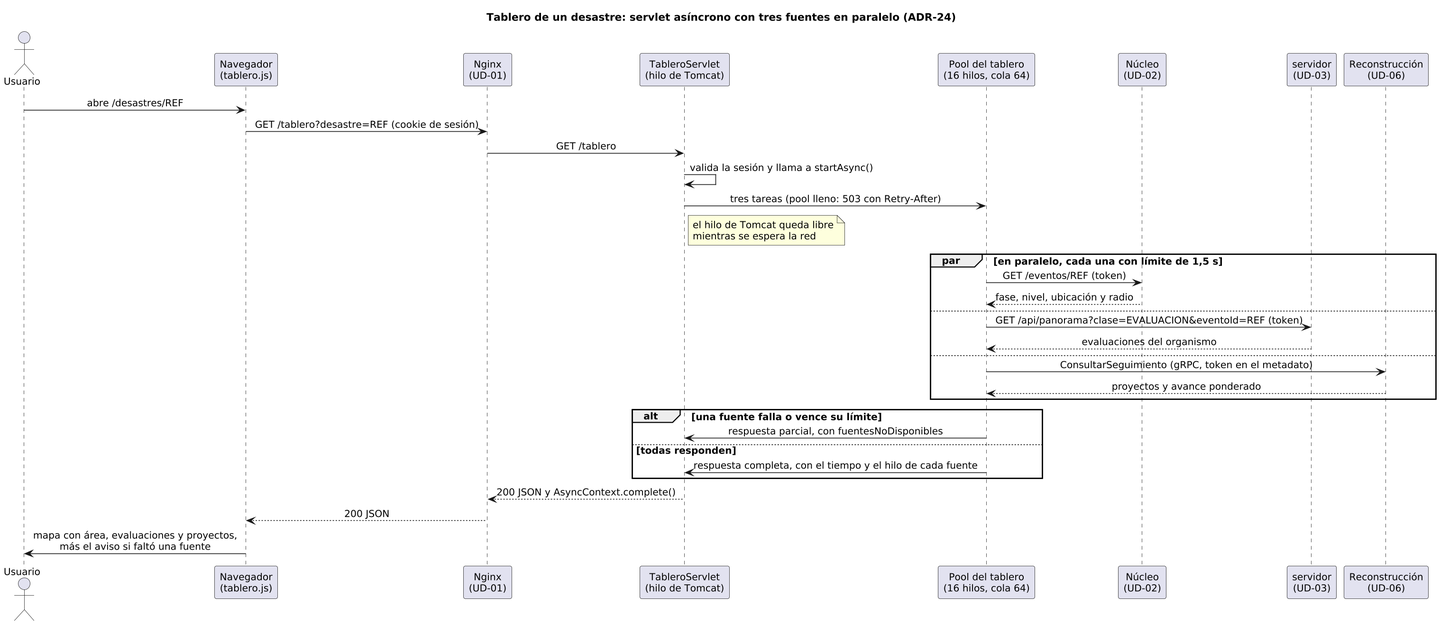
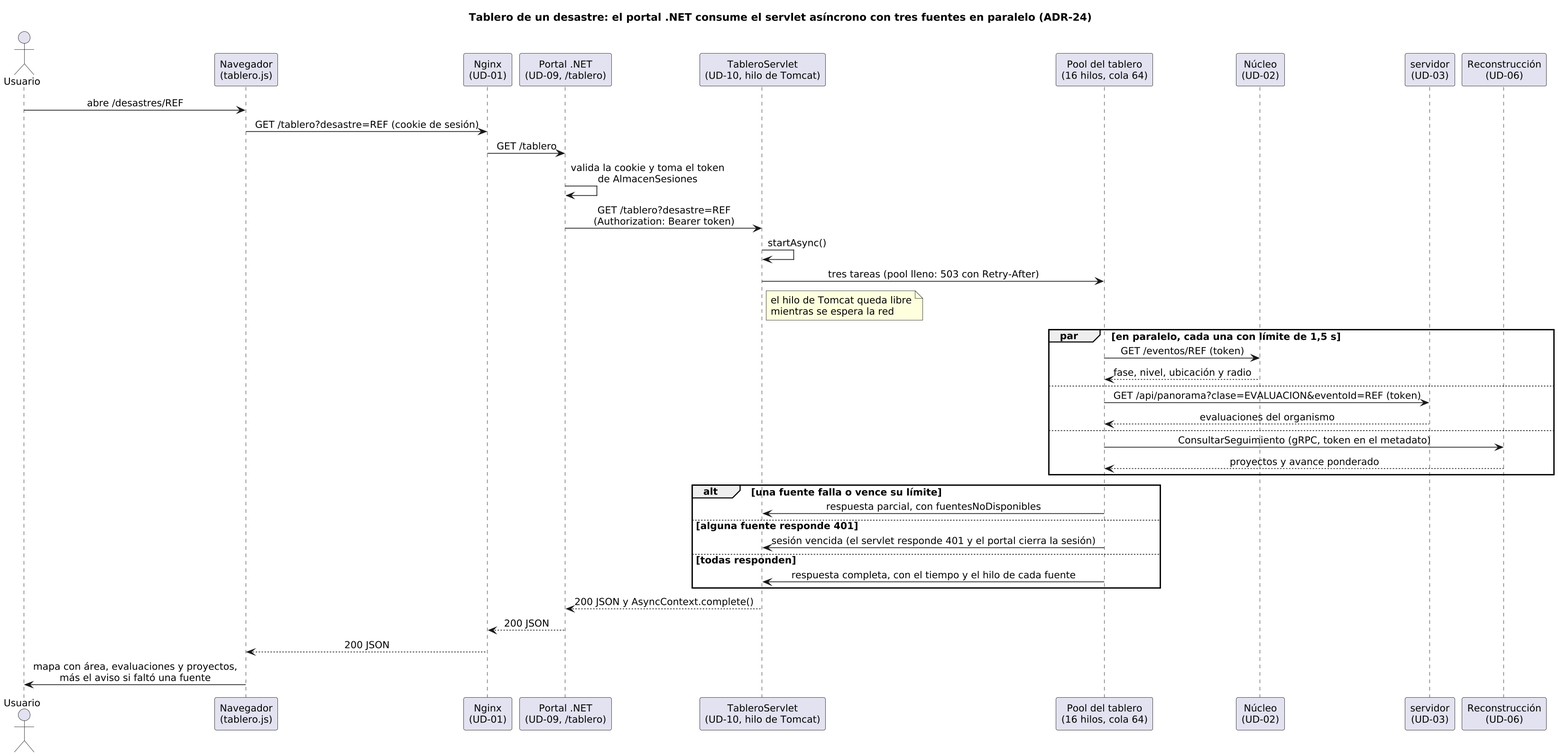
SAD v2.1: presentación en .NET (ADR-23), servicio de tablero (ADR-24) y diagramas
ADR-23 compara Web Forms, Web Pages, SPA/Blazor, MVC y Razor Pages, y documenta
Razor Pages como MVVM del lado del servidor. ADR-24 explica por qué el servlet
queda en un servicio Java aparte. Diagramas C4 de contenedores, despliegue,
componentes del portal y del tablero, y secuencia del tablero. README al día.

diff --git a/documentacion/SAD_arc42.md b/documentacion/SAD_arc42.md
@@ -1,8 +1,8 @@
-# SAD v2.0 · Plataforma para la Gestión de Desastres y Reconstrucción
+# SAD v2.1 · Plataforma para la Gestión de Desastres y Reconstrucción
 
 **Documento de arquitectura de software, organizado según arc42**
 
-**Versión:** 2.0 · **Fecha:** 15 de noviembre de 2026
+**Versión:** 2.1 · **Fecha:** 17 de noviembre de 2026
 
 **Equipo:** Andrés Barrios, Nicolás Parra, Thomás López, André Landinez
 
@@ -15,6 +15,7 @@
 | Primera entrega | 19-sep-2026 | Diseño inicial: un núcleo con tres satélites |
 | 1.0 | 10-nov-2026 | Ocho unidades de despliegue, vistas 4+1 y 22 decisiones. Responde al SRS v1.0 |
 | 2.0 | 15-nov-2026 | Reorganizado según arc42. Agrega el portal web MVC (UD-09) con su servlet multihilo y registra Reconstrucción (UD-06) como construida en Spring Boot con REST y gRPC. Retira UD-05. Adopta las cuatro fases del desastre. Agrega ADR-23 a ADR-29. Separa el ambiente entregado del despliegue objetivo |
+| 2.1 | 17-nov-2026 | Toda la presentación pasa a .NET, por aclaración del profesor: el portal se rehace en ASP.NET Core Razor Pages (ADR-23) y el servlet multihilo queda en un servicio de tablero en Java, UD-10, que el portal consume (ADR-24) |
 
 ## Cómo se cubren las vistas 4+1 y los entregables del enunciado
 
@@ -45,7 +46,7 @@ Este documento describe la arquitectura de la Plataforma para la Gestión de Des
 | --- | --- | --- |
 | a. App móvil que recolecta y caracteriza | App de campo .NET MAUI con SQLite: captura sin conexión y sincronización. Caracterizar desde la app está en curso | §6.4, §8.5 |
 | b. Reconstrucción física | UD-06 Reconstrucción, en Spring Boot con REST y gRPC | §5.3, §6.5 |
-| c. Mapa con desastres, evaluaciones y proyectos | Tablero del desastre en el portal (UD-09), armado por un servlet multihilo | §6.6 |
+| c. Mapa con desastres, evaluaciones y proyectos | Tablero del desastre en el portal (UD-09), armado por el servlet multihilo del servicio de tablero (UD-10) | §6.6 |
 | d. Evaluación de daños | Evaluaciones versionadas con fotografía en `servidor` (UD-03) | §5.3, §6.4 |
 | Autenticación y autorización | Sesión del núcleo validada en cada solicitud; permisos por rol y organismo | §8.1 |
 
@@ -97,8 +98,8 @@ El profesor y los evaluadores esperan decisiones justificadas y evidencia; los c
 
 | Restricción | Cómo se cumple |
 | --- | --- |
-| Presentación MVC con un framework | Portal en Spring MVC con Thymeleaf (ADR-23) |
-| Multihilo con servlets | `TableroServlet` asíncrono con pool acotado (ADR-24) |
+| Toda la presentación en .NET, con MVC, MVP o MVVM (aclaración del 17-nov-2026) | Portal en ASP.NET Core Razor Pages, MVVM del lado del servidor (ADR-23), y app de campo en .NET MAUI |
+| Multihilo con servlets | `TableroServlet` asíncrono con pool acotado, en el servicio de tablero que consume el portal (ADR-24) |
 | Componentes .NET para operar sin conexión | App de campo .NET MAUI con SQLite (ADR-25) |
 | Autenticación y autorización | Sesión del núcleo validada en cada unidad; permisos en el backend (§8.1) |
 | Alcance indicado en clase | Personas, recursos y donaciones como sistemas externos (ADR-28) |
@@ -108,7 +109,7 @@ El profesor y los evaluadores esperan decisiones justificadas y evidencia; los c
 - Se entrega un ambiente de una máquina con Docker Compose (§7.1). Los tres centros de datos quedan diseñados (§7.2).
 - Plantilla arc42 y diagramas C4: azul sólido es construido; gris con borde punteado, diseñado.
 - Se conservan los identificadores del SRS y de la versión 1.0 (RF, QA, CON, SE, UD, ADR). RN-01 a RN-21 son las reglas de negocio de Reconstrucción.
-- Los nombres en monoespaciado (`nucleo`, `servidor`, `desastres`, `campo`, `reconstruccion`, `portal`) son carpetas de código y contenedores.
+- Los nombres en monoespaciado (`nucleo`, `servidor`, `desastres`, `campo`, `reconstruccion`, `portal`, `tablero`) son carpetas de código y contenedores.
 
 ## 3. Contexto y alcance
 
@@ -211,8 +212,8 @@ Los puntajes son valoraciones del equipo, no mediciones. A y B pierden en escala
 | Bandeja de salida | Núcleo y Reconstrucción | Construido |
 | Publicar y suscribir con una cola por suscriptor | Notificaciones | Construido |
 | Entrada única | Nginx | Construido |
-| MVC con controlador frontal | Portal | Construido |
-| Consultas en paralelo con pool acotado y respuesta parcial | `TableroServlet` | Construido |
+| MVVM del lado del servidor (vista Razor y `PageModel`) | Portal | Construido |
+| Composición de API: consultas en paralelo con pool acotado y respuesta parcial | `TableroServlet` (servicio de tablero) | Construido |
 | Puertos y adaptadores (hexagonal) | Reconstrucción; capas en todas las unidades | Construido |
 | Fachada de API | `servidor` ofrece a la app una sola API y delega sesión y desastres en el núcleo | Construido |
 | Copia de lectura derivada | Catálogo de desastres en `servidor`; consulta pública | Construido; consulta pública diseñada |
@@ -220,7 +221,7 @@ Los puntajes son valoraciones del equipo, no mediciones. A y B pierden en escala
 
 ### 4.3 Tecnología y relación con Sahana Eden
 
-Java atiende el *back-office* en línea: el núcleo en Jakarta EE, por sus transacciones JTA, y Reconstrucción y el portal en Spring Boot 3.3. .NET atiende lo que trabaja sin conexión: la app MAUI y `servidor`, que comparten los contratos de sincronización (ADR-17).
+Java atiende el *back-office* en línea: el núcleo en Jakarta EE, por sus transacciones JTA, y Reconstrucción y el servicio de tablero en Spring Boot 3.3. .NET atiende toda la presentación (el portal en Razor Pages y la app MAUI) y `servidor`, que comparte con la app los contratos de sincronización (ADR-17, ADR-23).
 
 De Sahana Eden, analizada en el SRS, se toman la plataforma web como punto común, la configurabilidad por catálogos, la información geográfica transversal y el control de acceso por organización. No se toman su unidad única de despliegue ni su base compartida, porque impiden escalar y proteger lo crítico por separado.
 
@@ -242,7 +243,8 @@ De Sahana Eden, analizada en el SRS, se toman la plataforma web como punto comú
 | UD-06 | Reconstrucción (`reconstruccion`) | Java 17, Spring Boot 3.3, REST y gRPC | SRV-09: proyectos de reconstrucción física; RN-01 a RN-21 | Base `reconstruccion` | Degradable | Construida |
 | UD-07 | Consulta pública | ASP.NET Core | SRV-10: copia pública de solo lectura | Copia derivada | Degradable | Diseñada |
 | UD-08 | Integración | Jakarta EE, RabbitMQ | SRV-11: un adaptador por sistema externo | Pendientes | Según adaptador | Diseñada |
-| UD-09 | Portal web (`portal`) | Java 21, Spring Boot 3.3, Spring MVC, Thymeleaf | Única interfaz web; `TableroServlet` | Sesión HTTP en memoria | Crítica | Construida |
+| UD-09 | Portal web (`portal`) | ASP.NET Core 10, Razor Pages | Única interfaz web; consume los demás servicios | Tokens de sesión en memoria | Crítica | Construida |
+| UD-10 | Servicio de tablero (`tablero`) | Java 21, Spring Boot 3.3, Tomcat | Tablero de un desastre: `TableroServlet` multihilo | Ninguno | Degradable | Construida |
 | — | App de campo (`campo`) | .NET MAUI, SQLite | Captura sin conexión y sincronización | Capturas por organismo y usuario | Crítica | Construida; mejoras en curso |
 | INF-01 | Cola de mensajes | RabbitMQ 4.1 | — | Mensajes en tránsito | Crítica | Construida, un nodo |
 | INF-02 | Monitoreo | Sondas y métricas | — | Métricas | Crítica | Solo sondas de salud |
@@ -265,15 +267,23 @@ SRV-07 (personas) y SRV-08 (recursos) salen de alcance (ADR-28). El código de S
 
 ![Componentes del portal web](diagramas/componentes_portal.png)
 
-*Figura 4. Componentes del portal web (C4 nivel 3): MVC y servlet multihilo.*
+*Figura 4. Componentes del portal web (C4 nivel 3): ASP.NET Core Razor Pages.*
 
-| Parte del MVC | En el portal |
+| Parte del MVVM | En el portal |
 | --- | --- |
-| Controlador | `DispatcherServlet` de Spring como controlador frontal; clases `@Controller` de sesión, desastres, evaluaciones, mapa, Reconstrucción y usuarios |
-| Modelo | DTO y modelos de vista que arman `NucleoCliente` (REST), `ServidorCliente` (REST) y `ReconstruccionCliente` (gRPC) |
-| Vista | Plantillas Thymeleaf; el mapa usa Leaflet, servido por el portal |
+| Vista | Página Razor (`Pages/**/*.cshtml`): HTML generado en el servidor; el mapa usa Leaflet, servido por el portal |
+| Modelo de vista | `PageModel` de cada página (`*.cshtml.cs`): propiedades que la vista enlaza (`[BindProperty]`, validadas con anotaciones) y comandos `OnGet` y `OnPost…` |
+| Modelo | Datos de los servicios dueños, que traen `NucleoCliente` y `ServidorCliente` (REST), `ReconstruccionCliente` (gRPC, generado de `reconstruccion.proto`) y `TableroCliente` (REST) |
 
-Pantallas: inicio de sesión; desastres con filtro por fase, registro, caracterización, cambio de fase e historial; tablero con mapa; evaluaciones con historial y foto; Reconstrucción completa; usuarios del organismo. `InterceptorSesion` envía al inicio de sesión a quien no tiene sesión. Los botones dependen del rol, pero cada servicio valida los permisos.
+Pantallas: inicio de sesión; desastres con filtro por fase, registro, caracterización, cambio de fase e historial; tablero con mapa; evaluaciones con historial y foto; Reconstrucción completa; usuarios del organismo. La autenticación por cookie envía al inicio de sesión a quien no tiene sesión; la cookie solo lleva la identidad y un id, y el token del núcleo queda en la memoria del portal. Cada formulario lleva un token antifalsificación. Los botones dependen del rol, pero cada servicio valida los permisos.
+
+#### 5.2.2b Servicio de tablero (UD-10)
+
+![Componentes del servicio de tablero](diagramas/componentes_tablero.png)
+
+*Figura 4b. Componentes del servicio de tablero (C4 nivel 3): servlet asíncrono multihilo.*
+
+No tiene interfaz: solo lo llama el portal, con el token del usuario en `Authorization: Bearer`. `TableroServlet` reparte las tres consultas en un pool acotado (§6.6) y cada fuente valida el token contra el núcleo; si alguna responde 401, el servlet responde 401 y el portal cierra la sesión. No se publica en el equipo.
 
 #### 5.2.3 Reconstrucción (UD-06)
 
@@ -344,7 +354,7 @@ La coordinación de organismos (participación por desastre y tareas con estados
 | Adaptadores | Controladores REST y gRPC, mensajería, repositorios | Casos de uso |
 | Infraestructura | Base de datos, colas, red, configuración | Adaptadores |
 
-Hay una carpeta y un contenedor por unidad; `interop` guarda los clientes de prueba de SOAP y EJB remoto. Ninguna unidad importa código de otra: se comunican por contratos REST, gRPC (`reconstruccion.proto`, copiado en el portal) y de eventos (§8.4). Las pruebas de punta a punta están en `servidor/scripts` y `portal/scripts`, y `./verificar.sh` las corre todas.
+Hay una carpeta y un contenedor por unidad; `interop` guarda los clientes de prueba de SOAP y EJB remoto. Ninguna unidad importa código de otra: se comunican por contratos REST, gRPC (`reconstruccion.proto`, copiado en el portal y en el tablero) y de eventos (§8.4). Las pruebas de punta a punta están en `servidor/scripts` y `tablero/scripts`, y `./verificar.sh` las corre todas.
 
 ## 6. Vista de ejecución
 
@@ -408,7 +418,7 @@ Los ciudadanos usarían la consulta pública (diseñada), que lee su propia copi
 | La carga supera la capacidad | Se degrada en el orden de §8.2; lo crítico no |
 | El núcleo no responde | Las operaciones protegidas se rechazan; la consulta pública sigue |
 
-Evidencia: el tablero con 20 clientes responde con p95 de 241 ms en una máquina (§6.6). No hay prueba con 10.000 usuarios.
+Evidencia: el tablero con 20 clientes responde con p95 de 366 ms en una máquina (§6.6). No hay prueba con 10.000 usuarios.
 
 ### 6.3 Escenario C — Falla de un sistema externo
 
@@ -507,29 +517,32 @@ Cada proyecto guarda una copia de sus evaluaciones de origen y la conserva aunqu
 
 ![Secuencia del tablero](diagramas/secuencia_tablero.png)
 
-*Figura 10. Tablero de un desastre: servlet asíncrono con tres fuentes en paralelo.*
+*Figura 10. Tablero de un desastre: el portal .NET consume el servlet asíncrono, que consulta tres fuentes en paralelo.*
 
-1. `TableroServlet` atiende `GET /tablero`, valida la sesión y llama a `startAsync`, que libera el hilo de Tomcat.
-2. Un pool de 16 hilos con cola de 64 consulta en paralelo el desastre (núcleo), sus evaluaciones (`servidor`) y sus proyectos (Reconstrucción, por gRPC). Cada fuente tiene 1,5 s de límite, y la respuesta, 3 s.
-3. Si una fuente falla o vence, responde con las demás e indica `fuentesNoDisponibles`.
-4. Con el pool y la cola llenos responde 503 con `Retry-After`; nunca encola sin límite.
+1. El navegador pide `/tablero` al portal. El portal toma el token de la sesión y llama al servicio de tablero con `Authorization: Bearer`.
+2. `TableroServlet` llama a `startAsync`, que libera el hilo de Tomcat.
+3. Un pool de 16 hilos con cola de 64 consulta en paralelo el desastre (núcleo), sus evaluaciones (`servidor`) y sus proyectos (Reconstrucción, por gRPC). Cada fuente tiene 1,5 s de límite, y la respuesta, 3 s.
+4. Si una fuente falla o vence, responde con las demás e indica `fuentesNoDisponibles`; si una responde 401, el token venció y el portal cierra la sesión.
+5. Con el pool y la cola llenos responde 503 con `Retry-After`; nunca encola sin límite.
 
-Medición del 15-nov-2026 en el ambiente entregado (`evidencias/rol1-tablero/medicion_tablero_2026-11-15_2329.json`):
+Medición del 17-nov-2026 en el ambiente entregado, de punta a punta: navegador, Nginx, portal .NET, servicio de tablero y tres fuentes (`evidencias/rol1-tablero/medicion_tablero_2026-11-17_1527.json`):
 
 | Escenario | Solicitudes | Clientes | p50 | p95 | Lectura |
 | --- | --- | --- | --- | --- | --- |
-| Paralelo | 100 | 1 | 27 ms | 44 ms | Un 27 % más rápido en p95: tarda lo de la fuente más lenta |
-| Secuencial | 100 | 1 | 37 ms | 61 ms | |
-| Paralelo | 300 | 20 | 173 ms | 241 ms | Igual al secuencial (3 % más) en una máquina saturada |
-| Secuencial | 300 | 20 | 153 ms | 233 ms | |
-| Reconstrucción congelada | 60 | 20 | 1.510 ms | 1.523 ms | 60 de 60 respuestas parciales, sin errores |
+| Paralelo | 100 | 1 | 27 ms | 50 ms | Un 22 % más rápido en p95: tarda lo de la fuente más lenta |
+| Secuencial | 100 | 1 | 41 ms | 64 ms | |
+| Paralelo | 300 | 20 | 223 ms | 366 ms | Igual al secuencial (3 % más) en una máquina saturada |
+| Secuencial | 300 | 20 | 182 ms | 355 ms | |
+| Reconstrucción congelada | 60 | 20 | 1.515 ms | 1.528 ms | 60 de 60 respuestas parciales, sin errores |
+
+El salto del portal al servicio de tablero, que llegó con la presentación en .NET (ADR-23), cuesta unos 6 ms en p95 con un cliente (44 ms en la medición del 15-nov, sin ese salto). Con 20 clientes cuesta más (de 241 a 366 ms), porque en la misma máquina compiten dos contenedores más.
 
 Con 20 clientes, el paralelo triplica la carga simultánea sobre servicios ya saturados, que validan todos el token contra el núcleo: con una sola máquina no gana, y es un trade-off aceptado (ADR-24). Medir corrigió dos defectos:
 
 - Con el plazo de 5 s de las páginas, una fuente colgada retenía los hilos y 25 de 60 respuestas eran 503. Hoy el plazo de cada cliente del tablero es el límite de su fuente.
 - La fuente de Reconstrucción descargaba el catálogo completo del núcleo en cada consulta. Hoy las consultas de solo lectura usan una copia de hasta 3 s; las operaciones que deciden reglas leen siempre el dato fresco.
 
-La medición anterior a estos ajustes (`medicion_tablero_2026-11-15_1334.json`: p95 de 56 ms frente a 67 ms con 1 cliente y de 323 ms frente a 288 ms con 20) se conserva como evidencia del cambio.
+Las mediciones anteriores se conservan como evidencia de cada cambio: `medicion_tablero_2026-11-15_1334.json`, antes de esos ajustes (p95 de 56 ms frente a 67 ms con 1 cliente y de 323 ms frente a 288 ms con 20), y `medicion_tablero_2026-11-15_2329.json`, con el portal anterior en Spring (p95 de 44 ms frente a 61 ms con 1 cliente y de 241 ms frente a 233 ms con 20).
 
 ## 7. Vista de despliegue
 
@@ -542,7 +555,8 @@ La medición anterior a estos ajustes (`medicion_tablero_2026-11-15_1334.json`: 
 | Contenedor | Unidad | Tecnología | Puerto en el equipo | Habla con |
 | --- | --- | --- | --- | --- |
 | `web` | UD-01 Entrada | Nginx 1.28 | 127.0.0.1:18085 | `portal` (`/`), `api` (`/api/`), `reconstruccion` (`/api/reconstruccion/`) |
-| `portal` | UD-09 Portal web | Spring Boot 3.3, Spring MVC, Thymeleaf, Tomcat | — | `nucleo` (REST), `api` (REST), `reconstruccion` (gRPC 9096) |
+| `portal` | UD-09 Portal web | ASP.NET Core 10, Razor Pages, Kestrel | — | `nucleo` (REST), `api` (REST), `reconstruccion` (gRPC 9096), `tablero` (REST) |
+| `tablero` | UD-10 Servicio de tablero | Spring Boot 3.3, Tomcat | — | `nucleo` (REST), `api` (REST), `reconstruccion` (gRPC 9096) |
 | `nucleo` | UD-02 Núcleo | Jakarta EE en WildFly 41 (EJB, JPA, JTA, JAX-RS, SOAP, EJB remoto) | 127.0.0.1:18092 (pruebas) | `database`, `desastres` (HTTP, bandeja de salida) |
 | `database` | Base del núcleo | PostgreSQL 17 | — | — |
 | `api` | UD-03 Campo y mapas | ASP.NET Core 10 | — | `db`, `nucleo` (REST: sesión y catálogo), `desastres` |
@@ -554,8 +568,8 @@ La medición anterior a estos ajustes (`medicion_tablero_2026-11-15_1334.json`: 
 | `reconstruccion-db` | Base de Reconstrucción | PostgreSQL 17 | — | — |
 | Teléfono Android | App de campo | .NET MAUI + SQLite | — | `web` → `api` (`/api/campo/lotes`) |
 
-- **Inicio y secretos.** `./iniciar.sh` construye las imágenes, aplica las migraciones del núcleo y levanta los 11 contenedores. Los secretos viven en `servidor/.env`, que no se versiona y que `iniciar.sh` crea desde `.env.ejemplo`; Compose no tiene contraseñas escritas. Los puertos solo escuchan en 127.0.0.1.
-- **Verificación.** `./verificar.sh` corre 9 pruebas de punta a punta: API, integración, campo, Reconstrucción con gRPC, evolución, unificación, caracterización, portal y seguridad. El 15-nov-2026 pasaron con 247 comprobaciones; el número varía en dos o tres entre corridas porque algunas se repiten dentro de un ciclo de espera. La instalación en limpio, desde un clon nuevo, también pasa (`evidencias/rol1-build/`).
+- **Inicio y secretos.** `./iniciar.sh` construye las imágenes, aplica las migraciones del núcleo y levanta los 12 contenedores. Los secretos viven en `servidor/.env`, que no se versiona y que `iniciar.sh` crea desde `.env.ejemplo`; Compose no tiene contraseñas escritas. Los puertos solo escuchan en 127.0.0.1.
+- **Verificación.** `./verificar.sh` corre 9 pruebas de punta a punta: API, integración, campo, Reconstrucción con gRPC, evolución, unificación, caracterización, portal y seguridad. El 17-nov-2026, con el portal en .NET, pasaron con 248 comprobaciones (`evidencias/rol1-build/2026-11-17_verificar_portal_net.log`); el número varía en dos o tres entre corridas porque algunas se repiten dentro de un ciclo de espera. La instalación en limpio, desde un clon nuevo, también pasa (`evidencias/rol1-build/`).
 - **Alcance.** Este ambiente prueba el comportamiento funcional y sirve para medir (ADR-29). No prueba la disponibilidad ni la carga de 10.000 usuarios.
 
 ### 7.2 Despliegue objetivo: tres centros de datos (diseñado)
@@ -601,7 +615,7 @@ Tres reglas: se niega lo que no está permitido; cada permiso depende del rol y 
 
 | Mecanismo | Dónde y con qué valores | Estado |
 | --- | --- | --- |
-| Tiempos de espera | Entrada a las unidades: 5 s de conexión. Portal: 2 s de conexión y 5 s de lectura; 1,5 s por fuente en el tablero. `servidor` al núcleo: 5 s. Núcleo a notificaciones: 2 s y 3 s. Adaptadores: 2 a 10 s | Construido, salvo adaptadores |
+| Tiempos de espera | Entrada a las unidades: 5 s de conexión. Portal: 2 s de conexión y 5 s de lectura (4 s hacia el tablero). Servicio de tablero: 1,5 s por fuente y 3 s en total. `servidor` al núcleo: 5 s. Núcleo a notificaciones: 2 s y 3 s. Adaptadores: 2 a 10 s | Construido, salvo adaptadores |
 | Reintentos | Bandeja de salida en cada ciclo; cola de reintento a los 5 s; la app reenvía con los mismos identificadores | Construido |
 | Corte de circuito | Por adaptador: 3 fallas seguidas o 5 en 30 s; sonda cada 30 s | Diseñado |
 | Colas | Entrada de alertas, una por suscriptor, correo, eventos de Reconstrucción; durables | Construido en un nodo |
@@ -661,7 +675,7 @@ Con 80.000 ciudadanos solo crecería la consulta pública, de 4 a 9 instancias. 
 | Respuesta | 0,4 s | 0,4 s |
 | Margen | 0,3 s | 0,9 s |
 
-**Medido en el ambiente entregado.** El tablero, la consulta más compuesta, tuvo p95 de 44 ms con un cliente y de 241 ms con 20 (§6.6); en la versión 1.0, el registro de un desastre respondió en 22 ms con poca carga. Ninguna cifra incluye red real, réplica ni 10.000 usuarios. Confirmar en otro centro consumiría cerca de 0,8 s de los 3 s del registro, y con fotos de 5 MB el volumen de campo se multiplica por cinco. Las listas aún no se paginan (diseñado: de 20 en 20 con cursor).
+**Medido en el ambiente entregado.** El tablero, la consulta más compuesta, tuvo p95 de 50 ms con un cliente y de 366 ms con 20 (§6.6); en la versión 1.0, el registro de un desastre respondió en 22 ms con poca carga. Ninguna cifra incluye red real, réplica ni 10.000 usuarios. Confirmar en otro centro consumiría cerca de 0,8 s de los 3 s del registro, y con fotos de 5 MB el volumen de campo se multiplica por cinco. Las listas aún no se paginan (diseñado: de 20 en 20 con cursor).
 
 ### 8.4 APIs y eventos
 
@@ -681,7 +695,8 @@ Códigos HTTP: 200 o 201 aplicada; 202 recibida para proceso diferido; 401 sin c
 | `servidor` | `GET /api/desastres`, `/api/catalogos`; `POST /api/campo/lotes`; `GET` y `PUT /api/campo/evaluaciones/{id}`, con `/historial`, `/foto` y `/desastre`; `GET /api/panorama`; `/api/salud` | RF-ED-01 a 03, 07, 08, 11 a 14 |
 | Reconstrucción REST | Bajo `/api/reconstruccion`: desastres (iniciar reconstrucción, cerrar, evaluaciones, seguimiento, auditoría) y proyectos (crear, aprobar, iniciar, presupuesto, avance, costo, evidencia, estado, auditoría) | RF-RE-01 a 06 |
 | Reconstrucción gRPC | `ReconstruccionService`, 14 RPC: `IniciarReconstruccion`, `CrearProyecto`, `CrearProyectosEnLote`, `AprobarProyecto`, `IniciarEjecucion`, `RegistrarAvance`, `RegistrarCosto`, `AdjuntarEvidencia`, `ModificarPresupuesto`, `CambiarEstado`, `ConsultarSeguimiento`, `ConsultarAuditoria`, `CerrarDesastre`, `ConsultarEvaluaciones` | RF-RE-01 a 06 |
-| Portal | Páginas MVC y `GET /tablero?desastre=` (JSON del mapa) | Mínimo c |
+| Portal | Páginas Razor y `GET /tablero?desastre=` (JSON del mapa, que reenvía al servicio de tablero) | Mínimos a, b, c y d |
+| Servicio de tablero | `GET /tablero?desastre=` con `Authorization: Bearer`; solo lo llama el portal | Mínimo c |
 | Notificaciones | `POST /desastres` (aviso desde la bandeja de salida); `POST` y `GET /sistemas` (suscripción) | RF-GD-13, RF-CO-06 |
 
 Diseñadas, sin código: validación y duplicados de evaluaciones, documentos PDF, delimitación y consulta histórica, consolidación, participación y tareas, tipos de desastre, auditoría consolidada, consulta pública y alertas por fuente.
@@ -876,9 +891,9 @@ Cada ADR indica su estado en el código. Frente a la versión 1.0, ADR-01, 02, 0
 - **Requisitos.** CON-07, CON-02; restricciones del curso (§2.2).
 - **Contexto.** Los talleres usaron Jakarta EE, Spring Boot, .NET, mensajería, REST, SOAP, gRPC y llamadas remotas; el curso pide MVC, servlets multihilo y .NET sin conexión.
 - **Alternativas.** Una plataforma para todo; la que mejor se ajusta a cada unidad.
-- **Decisión.** Núcleo: Java 21 y Jakarta EE en WildFly 41 (EJB, JPA, JTA, JAX-RS, SOAP, EJB remoto). Portal: Java 21, Spring Boot 3.3, Spring MVC, Thymeleaf y servlets en Tomcat, con cliente gRPC. Reconstrucción: Java 17, Spring Boot 3.3, REST y gRPC. `servidor`: ASP.NET Core 10. App: .NET MAUI y SQLite. Notificaciones: Java 17 y Jakarta EE en Payara 6. Además, PostgreSQL 17, RabbitMQ 4.1, Nginx 1.28 y Docker Compose.
-- **Justificación.** JTA da la transacción local de ADR-01; Java para el *back-office* en línea y .NET para lo desconectado. CON-02 se ejercita con REST, gRPC, SOAP y EJB remoto.
-- **Consecuencias.** Dos plataformas y tres servidores de aplicaciones; la copia del `.proto` en el portal debe igualar la de Reconstrucción.
+- **Decisión.** Núcleo: Java 21 y Jakarta EE en WildFly 41 (EJB, JPA, JTA, JAX-RS, SOAP, EJB remoto). Portal: ASP.NET Core 10 con Razor Pages y cliente gRPC. Servicio de tablero: Java 21, Spring Boot 3.3 y servlets en Tomcat, con cliente gRPC. Reconstrucción: Java 17, Spring Boot 3.3, REST y gRPC. `servidor`: ASP.NET Core 10. App: .NET MAUI y SQLite. Notificaciones: Java 17 y Jakarta EE en Payara 6. Además, PostgreSQL 17, RabbitMQ 4.1, Nginx 1.28 y Docker Compose.
+- **Justificación.** JTA da la transacción local de ADR-01; Java para el *back-office* en línea y .NET para toda la presentación y lo desconectado. CON-02 se ejercita con REST, gRPC, SOAP y EJB remoto.
+- **Consecuencias.** Dos plataformas y tres servidores de aplicaciones; las copias del `.proto` en el portal y en el tablero deben igualar la de Reconstrucción (lo comprueba `verificar_portal.py`).
 
 #### ADR-18 — Incorporación inmediata o diferida de los lotes · Construido
 
@@ -925,23 +940,35 @@ Cada ADR indica su estado en el código. Frente a la versión 1.0, ADR-01, 02, 0
 - **Justificación.** Varias instancias y un registro que sobrevive a un centro.
 - **Consecuencias.** Una base más; mientras tanto, una sola instancia activa. Se decide con ADR-27.
 
-#### ADR-23 — Una sola presentación web MVC con Spring MVC y Thymeleaf · Construido
+#### ADR-23 — Presentación web en ASP.NET Core Razor Pages · Construido
 
-- **Requisitos.** Restricción del curso (MVC con framework); QA-SEG-01, QA-ESC-01; mínimos a, b, c y d.
-- **Contexto.** Había HTML estático en `servidor`, React en Reconstrucción y la app MAUI. Ninguna web usaba un framework MVC, y cada una manejaba la sesión en el navegador.
-- **Alternativas.** JSF del Taller 4 (estado de vista por sesión); ASP.NET Core MVC (sin servlets); Spring MVC con Thymeleaf; dejar HTML estático y React.
-- **Decisión.** UD-09 Portal web, en Spring Boot 3.3 con Spring MVC y Thymeleaf, como única interfaz web (§5.2.2). Habla por REST con el núcleo y `servidor`, y por gRPC con Reconstrucción.
-- **Justificación.** Un solo inicio de sesión, con el token guardado en el servidor. Sin estado de vista, a diferencia de JSF, lo que favorece el Escenario B. Corre en un contenedor de servlets, lo que permite ADR-24. No agrega tecnología.
-- **Consecuencias.** A favor: se verifica de punta a punta (`verificar_portal.py`, 44 comprobaciones con tres roles) y gRPC tiene un cliente real. En contra: depende de tres servicios, repite algunas validaciones y su sesión en memoria pide afinidad con varias instancias.
+- **Requisitos.** Restricción del curso: toda la presentación en .NET, con MVC, MVP o MVVM (aclaración del profesor del 17-nov-2026, que precisa la de "MVC con un framework"); QA-SEG-01, QA-ESC-01; mínimos a, b, c y d.
+- **Contexto.** La versión 2.0 tenía el portal en Spring MVC con Thymeleaf. El profesor aclaró que la presentación debe ser .NET y planteó escoger entre las opciones de ASP.NET: Web Forms, Web Pages, SPA y MVC. ASP.NET Core agrega Razor Pages y Blazor.
+- **Alternativas.**
+  - Web Forms (su patrón natural es MVP): solo existe en .NET Framework, sobre Windows e IIS. Microsoft no la llevó al .NET actual, así que no corre en los contenedores Linux del ambiente.
+  - Web Pages: tampoco existe en ASP.NET Core; su sucesor es Razor Pages.
+  - SPA con React, Angular o Vue, o Blazor. Microsoft recomienda Blazor para proyectos nuevos, pero en modo interactivo de servidor mantiene una conexión y un estado por usuario, y en el navegador (WebAssembly o JavaScript) el token del núcleo quedaría del lado del cliente.
+  - ASP.NET Core MVC: válido; es la traducción directa del portal anterior.
+  - Razor Pages.
+- **Decisión.** UD-09 Portal web en ASP.NET Core 10 con Razor Pages, como única interfaz web (§5.2.2). Cada pantalla es una página: la vista `.cshtml` y su `PageModel`. Consume los servicios ya desplegados sin reescribir su lógica: REST con el núcleo, con `servidor` y con el servicio de tablero, y gRPC con Reconstrucción, con el cliente generado del mismo `reconstruccion.proto`.
+- **Justificación.**
+  - Las pantallas son formularios y listas. Razor Pages las organiza por página sobre la misma base de MVC (enlace de modelo, validación y resultados), con menos piezas que controladores y vistas por separado.
+  - Patrón: el `PageModel` expone las propiedades que la vista enlaza (`[BindProperty]`, validadas con anotaciones) y atiende los comandos (`OnGet`, `OnPost…`). Hace de modelo de vista, por eso se documenta como MVVM del lado del servidor. Microsoft no le pone nombre de patrón: la clasificación es del equipo. La app MAUI usa el mismo patrón.
+  - Misma plataforma que `servidor` (ASP.NET Core 10): no agrega tecnología.
+  - Sin estado de vista por usuario, lo que favorece el escenario B. El token queda en el servidor y los formularios traen protección antifalsificación (CSRF) por defecto.
+  - Sigue el consejo del profesor de desplegar y consumir: solo cambió la capa de presentación; los servicios de negocio siguen igual.
+- **Consecuencias.**
+  - A favor: `verificar_portal.py` pasa con 47 comprobaciones y tres roles. Un cliente .NET usa el contrato gRPC de un servicio Java, lo que prueba la interoperabilidad (QA-INT-01).
+  - En contra: el servlet multihilo ya no puede vivir en la presentación y se suma un contenedor (ADR-24). Los tokens de sesión viven en la memoria del portal: con varias instancias hace falta afinidad o un almacén compartido. El `.proto` se copia en el portal y en el tablero; una prueba verifica que las copias son idénticas.
 
 #### ADR-24 — Servlet asíncrono y multihilo para el tablero · Construido y medido
 
 - **Requisitos.** Restricción del curso (multihilo con servlets); QA-REN-01, QA-RES-02, QA-ESC-01; mínimo c.
-- **Contexto.** El tablero junta tres dueños. En secuencia, sus latencias se suman y una falla tumba la página.
-- **Alternativas.** Consultas secuenciales en el controlador; paralelas desde el navegador; servlet asíncrono con pool acotado.
-- **Decisión.** `TableroServlet` con `@WebServlet(asyncSupported = true)`, `startAsync` y un `ThreadPoolExecutor` de 16 hilos con cola de 64; 1,5 s por fuente, respuesta parcial y 503 con el pool lleno (§6.6).
+- **Contexto.** El tablero junta tres dueños. En secuencia, sus latencias se suman y una falla tumba la página. Desde la versión 2.1 la presentación es .NET (ADR-23), así que el servlet no puede vivir en el portal.
+- **Alternativas.** Consultas secuenciales en la página; paralelas desde el navegador; tareas en paralelo en el portal .NET (no es un servlet); el servlet dentro del núcleo, que tendría que llamar a `servidor` y crearía un ciclo, porque `servidor` ya llama al núcleo; un servicio de tablero propio con un servlet asíncrono y pool acotado.
+- **Decisión.** UD-10 Servicio de tablero (`tablero`, Spring Boot 3.3 en Tomcat), que solo consume el portal. Su `TableroServlet` usa `@WebServlet(asyncSupported = true)`, `startAsync` y un `ThreadPoolExecutor` de 16 hilos con cola de 64; 1,5 s por fuente, respuesta parcial y 503 con el pool lleno (§6.6). El portal le reenvía el token del usuario y, si una fuente responde 401, el servlet responde 401.
 - **Justificación.** Sin carga tarda lo de la fuente más lenta; una fuente caída no tumba el tablero; el pool limita la presión sobre los servicios. Las tres cosas están medidas (§6.6).
-- **Consecuencias.** Trade-off medido: con 20 clientes en una sola máquina el paralelo no gana (p95 de 241 frente a 233 ms), porque los servicios de atrás ya están saturados. Puntos de sensibilidad: el tamaño del pool, la cola, el límite por fuente y la vigencia de la copia del catálogo en Reconstrucción.
+- **Consecuencias.** Trade-off medido: con 20 clientes en una sola máquina el paralelo no gana (p95 de 366 frente a 355 ms), porque los servicios de atrás ya están saturados. El salto del portal al servicio de tablero cuesta unos 6 ms en p95 con un cliente. Puntos de sensibilidad: el tamaño del pool, la cola, el límite por fuente y la vigencia de la copia del catálogo en Reconstrucción.
 
 #### ADR-25 — Operación sin conexión con .NET MAUI y SQLite · Construido; mejoras en curso
 
@@ -954,8 +981,8 @@ Cada ADR indica su estado en el código. Frente a la versión 1.0, ADR-01, 02, 0
 - **Requisitos.** Mínimo b; QA-INT-01, QA-TRZ-01; CON-02.
 - **Contexto.** El diseño del taller era .NET, pero el curso deja .NET para lo desconectado. Reconstrucción es un *back-office* en línea que comparte con el núcleo la identidad y la fase del desastre.
 - **Alternativas.** .NET con gRPC y SignalR, como en el taller; Jakarta EE dentro del núcleo; Spring Boot aparte.
-- **Decisión.** Unidad propia en Spring Boot 3.3 con su base. REST para clientes heterogéneos y scripts; gRPC (14 RPC) como canal interno del portal. Valida el token contra el núcleo y publica desde una bandeja de salida con el formato C5.
-- **Justificación.** Mismo lenguaje que el núcleo y el portal; reglas RN-01 a RN-21 en un dominio sin framework, probado en memoria; contrato gRPC tipado entre servicios Java.
+- **Decisión.** Unidad propia en Spring Boot 3.3 con su base. REST para clientes heterogéneos y scripts; gRPC (14 RPC) como canal interno hacia el portal .NET y el servicio de tablero. Valida el token contra el núcleo y publica desde una bandeja de salida con el formato C5.
+- **Justificación.** Mismo lenguaje que el núcleo y el servicio de tablero; reglas RN-01 a RN-21 en un dominio sin framework, probado en memoria; contrato gRPC tipado entre servicios Java.
 - **Consecuencias.** Una tercera base y un tercer servidor de aplicación. El refresco del tablero reemplaza el tiempo real (SignalR) del taller. No guarda datos de personas.
 
 #### ADR-27 — Consumo continuo de RabbitMQ en notificaciones · En curso
@@ -980,7 +1007,7 @@ Cada ADR indica su estado en el código. Frente a la versión 1.0, ADR-01, 02, 0
 - **Alternativas.** Promedio; máximo; percentiles.
 - **Decisión.** p50 y p95, medidos en el ambiente entregado con el número de solicitudes y la concurrencia. Las metas de los tres centros son metas de diseño.
 - **Justificación.** Bass, Clements y Kazman miden latencia y tasa de incumplimiento: «p95 menor que 2 s» es una latencia máxima con hasta 5 % de incumplimiento. El libro de SRE de Google (Beyer et al., 2016, cap. 4) trata las latencias como distribuciones.
-- **Consecuencias.** No se extrapola al despliegue objetivo. Evidencia: `portal/scripts/medir_tablero.py` y su informe JSON.
+- **Consecuencias.** No se extrapola al despliegue objetivo. Evidencia: `tablero/scripts/medir_tablero.py` y su informe JSON.
 
 ## 10. Requisitos de calidad
 
@@ -1011,13 +1038,13 @@ Los escenarios completos están en el SRS. Aquí se ordenan por importancia (I) 
 | QA-DIS-03, QA-CNF-01 | Operaciones sobre versión base; almacén local | 04, 13, 25 | `verificar_android_instrumentado.py`, `verificar_evolucion.py` |
 | QA-ESC-01 | Unidades que crecen por separado; entrada única; portal sin estado de vista | 01, 03, 14, 23 | Modelo de capacidad (estimación) |
 | QA-ESC-02 | Unidad propia para campo; fotos después; incorporación diferida | 13, 18 | `verificar_campo.py`; sin prueba con 500 equipos |
-| QA-REN-01 | Copias de lectura; consultas en paralelo | 03, 24, 29 | Tablero: p95 de 44 ms con 1 cliente y de 241 ms con 20 |
+| QA-REN-01 | Copias de lectura; consultas en paralelo | 03, 24, 29 | Tablero: p95 de 50 ms con 1 cliente y de 366 ms con 20 |
 | QA-REN-02 | Presupuesto por tramo; resultado en la misma llamada | 02, 29 | 22 ms con poca carga (versión 1.0) |
 | QA-REN-03 | Bandeja de salida; cola por suscriptor; consumo continuo | 02, 15, 27 | 2,7 s y 3,2 s con avisos aislados (versión 1.0); 10 simultáneas pendiente |
 | QA-RES-01 | Adaptador con corte de circuito y cola | 07, 21 | Cola por suscriptor y bandeja de salida verificadas |
 | QA-RES-02 | Procesos separados; respuesta parcial | 11, 16, 24 | 60 de 60 respuestas parciales con Reconstrucción caída |
 | QA-INT-01, QA-INT-02, QA-EXT-01 | Adaptadores; REST, gRPC, SOAP y EJB remoto | 07, 17, 26 | Prueba gRPC con `grpcurl`; prueba de EJB remoto; suscripción de sistemas |
-| QA-SEG-01, QA-SEG-02 | Sesión validada en el núcleo; permisos en el backend | 10, 19, 23 | `verificar_seguridad.py` (10), `verificar_portal.py` (43), `verificar_unificacion.py` |
+| QA-SEG-01, QA-SEG-02 | Sesión validada en el núcleo; permisos en el backend | 10, 19, 23 | `verificar_seguridad.py` (10), `verificar_portal.py` (47), `verificar_unificacion.py` |
 | QA-TRZ-01 | Auditoría en la transacción del cambio | 20 | `verificar_reconstruccion.py`, `verificar_caracterizacion.py` |
 | QA-TRZ-02, QA-MOD-01, QA-MOD-02, QA-CNF-02 | Dos fechas; configuración; alias | 05, 06, 08 | Sin código |
 
@@ -1036,7 +1063,7 @@ Los escenarios completos están en el SRS. Aquí se ordenan por importancia (I) 
 | Código de Solicitudes de recursos en el núcleo y en `servidor` | Mantener y exponer algo fuera de alcance | Abierto | Retirarlo de ambos lados, con sus pruebas, cuando el equipo lo acuerde |
 | Catálogo de `servidor` con consistencia eventual de unos segundos | Una evaluación de un desastre recién creado queda preliminar unos segundos | Aceptado | Documentado; las pruebas esperan |
 | Trade-off del tablero en una máquina saturada | Más carga simultánea sobre los servicios de atrás | Aceptado | Ajustar pool y límite; medir con servicios escalados |
-| Sesión HTTP del portal en memoria | Varias instancias exigen afinidad o almacén compartido | Abierto | Afinidad en la entrada o sesión compartida |
+| Tokens de sesión del portal en memoria | Varias instancias exigen afinidad; un reinicio del portal pide entrar de nuevo | Abierto | Afinidad en la entrada o almacén compartido (por ejemplo, Redis) |
 | Sin pruebas de carga de 10.000 usuarios ni de 500 equipos con fotos | Metas de escala sin evidencia | Abierto | Prueba con red real |
 | Validación de evaluaciones sin código | Reconstrucción toma como validada una evaluación vinculada a un desastre | Abierto | Validación por un coordinador distinto |
 | C1 (tipo de activo) y C2 desde la app, en curso | Proyectos clasificados con texto libre; la app aún no caracteriza | En curso | Ajustar el adaptador de Reconstrucción al publicarse C1 |
@@ -1056,6 +1083,8 @@ Los escenarios completos están en el SRS. Aquí se ordenan por importancia (I) 
 | Unidad de despliegue (UD) | Proceso que se despliega, crece y falla por separado, dueño de su base |
 | Componente (SRV) | Responsabilidad lógica; varios pueden vivir en una unidad |
 | Respuesta parcial | Respuesta del tablero que trae las fuentes disponibles y nombra la que faltó |
+| Razor Pages | Modelo de ASP.NET Core en el que cada pantalla es una página: vista `.cshtml` más su `PageModel` |
+| MVVM | Modelo, vista y modelo de vista: la vista enlaza propiedades del modelo de vista, que atiende sus comandos |
 | Aviso | Mensaje que anuncia un cambio ya guardado y viaja por una cola |
 | Bandeja de salida | Tabla donde el cambio y su aviso se guardan en la misma transacción |
 | Versión base | Versión que el cliente tenía cuando hizo el cambio |

diff --git a/README.md b/README.md
@@ -1,8 +1,8 @@
 # Territorio · integración de los talleres
 
-Código unificado de la plataforma: núcleo de identidad y desastres (Jakarta EE), evaluaciones de campo y mapas (.NET), captura sin conexión (.NET MAUI), notificaciones (Taller 3, RabbitMQ), Reconstrucción física (Spring Boot, REST y gRPC) y el **portal web** (Spring MVC + Thymeleaf), que es la única interfaz web y tiene el servlet asíncrono multihilo del tablero.
+Código unificado de la plataforma: núcleo de identidad y desastres (Jakarta EE), evaluaciones de campo y mapas (.NET), captura sin conexión (.NET MAUI), notificaciones (Taller 3, RabbitMQ), Reconstrucción física (Spring Boot, REST y gRPC), el **portal web** (ASP.NET Core Razor Pages), que es la única interfaz web, y el **servicio de tablero** (Java), con el servlet asíncrono multihilo que arma el tablero de un desastre.
 
-Estado al 15 de noviembre de 2026: todo compila y `./verificar.sh` pasa completo (243 comprobaciones, registro en `evidencias/rol1-build/`). Los documentos SRS, SAD y ATAM todavía no reflejan estos cambios.
+Estado al 17 de noviembre de 2026: todo compila y `./verificar.sh` pasa completo con el portal en .NET (248 comprobaciones, registro en `evidencias/rol1-build/2026-11-17_verificar_portal_net.log`). La arquitectura está en `documentacion/SAD_arc42.md` (v2.1); el SRS y el ATAM se están pasando a sus plantillas.
 
 ## Ejecutar
 
@@ -20,12 +20,20 @@ Acceso de laboratorio inicial: **coordinador_demo** / **Arqui-Local-2026!**. Pue
 
 El inicio aplica V001–V009, incluso sobre un volumen existente. Para detener conservando datos: `docker compose -f servidor/compose.yaml stop`. No uses `down -v` para actualizar.
 
-## Portal web (UD-09)
+## Portal web (UD-09) y servicio de tablero (UD-10)
 
-- **MVC con Spring MVC + Thymeleaf:** controladores `@Controller` en `portal/src/main/java/com/pgdr/portal/web`, vistas en `portal/src/main/resources/templates`. El token del núcleo vive en la sesión del servidor; el navegador solo tiene la cookie de sesión.
-- **Pantallas:** desastres (registro, fase y caracterización), tablero de un desastre con mapa, evaluaciones con historial y foto, mapa general, Reconstrucción física completa y usuarios del organismo.
-- **Servlet multihilo:** `portal/.../tablero/TableroServlet.java` (`GET /tablero?desastre=REF`). Consulta en paralelo el núcleo, servidor y Reconstrucción (gRPC) con un pool acotado. Responde parcial si una fuente falla y 503 si el pool está lleno.
-- **Medición:** `python portal/scripts/medir_tablero.py` deja el informe en `evidencias/rol1-tablero/`.
+Toda la presentación es .NET: la app de campo (MAUI) y el portal web.
+
+- **Portal web en ASP.NET Core Razor Pages** (`portal/`, .NET 10):
+  - Cada pantalla es una página: la vista (`Pages/**/*.cshtml`) y su `PageModel` (`*.cshtml.cs`), que expone los datos que la vista enlaza y atiende los formularios (`OnGet`, `OnPost…`). Se documenta como MVVM del lado del servidor (ADR-23).
+  - No guarda datos propios: consume los servicios desplegados. Usa REST con el núcleo y con `servidor`, gRPC con Reconstrucción (cliente generado del mismo `reconstruccion.proto`) y REST con el servicio de tablero.
+  - El token del núcleo queda en la memoria del portal; el navegador solo tiene la cookie `pgdr.sesion` (HttpOnly). Cada formulario lleva un token antifalsificación (CSRF).
+  - Pantallas: desastres (registro, fase y caracterización), tablero de un desastre con mapa, evaluaciones con historial y foto, mapa general, Reconstrucción física completa y usuarios del organismo.
+- **Servicio de tablero** (`tablero/`, Java 21, Spring Boot):
+  - Su `TableroServlet` (`GET /tablero?desastre=REF` con `Authorization: Bearer`) es asíncrono y multihilo.
+  - Consulta en paralelo el núcleo, `servidor` y Reconstrucción (gRPC) con un pool acotado.
+  - Responde parcial si una fuente falla y 503 si el pool está lleno. No se publica: solo lo llama el portal, que reenvía el token del usuario.
+- **Medición:** `python tablero/scripts/medir_tablero.py` deja el informe en `evidencias/rol1-tablero/`.
 
 ## Qué se unió
 

diff --git a/documentacion/borrador_SAD_ADR_23_a_29.md b/documentacion/borrador_SAD_ADR_23_a_29.md
@@ -1,5 +1,7 @@
 # Borrador para el SAD (arc42 §9 y §7) · ADR-23 a ADR-29 y ambiente entregado
 
+> **Reemplazado por `SAD_arc42.md` (v2.1, 17-nov-2026).** Desde esa versión la presentación es .NET: ADR-23 pasó a ASP.NET Core Razor Pages y el servlet de ADR-24 vive en el servicio de tablero (UD-10). Este borrador se conserva solo como historia.
+>
 > Borrador interno de Rol 1 (15-nov-2026) para pasar al SAD en arc42. Mismo formato que ADR-01 a 22.
 > Las cifras son las de `evidencias/rol1-tablero/medicion_tablero_2026-11-15_1334.json` y `evidencias/rol1-build/`.
 > ADR-25 y ADR-27 los completa Rol 2 (mensaje M6).
